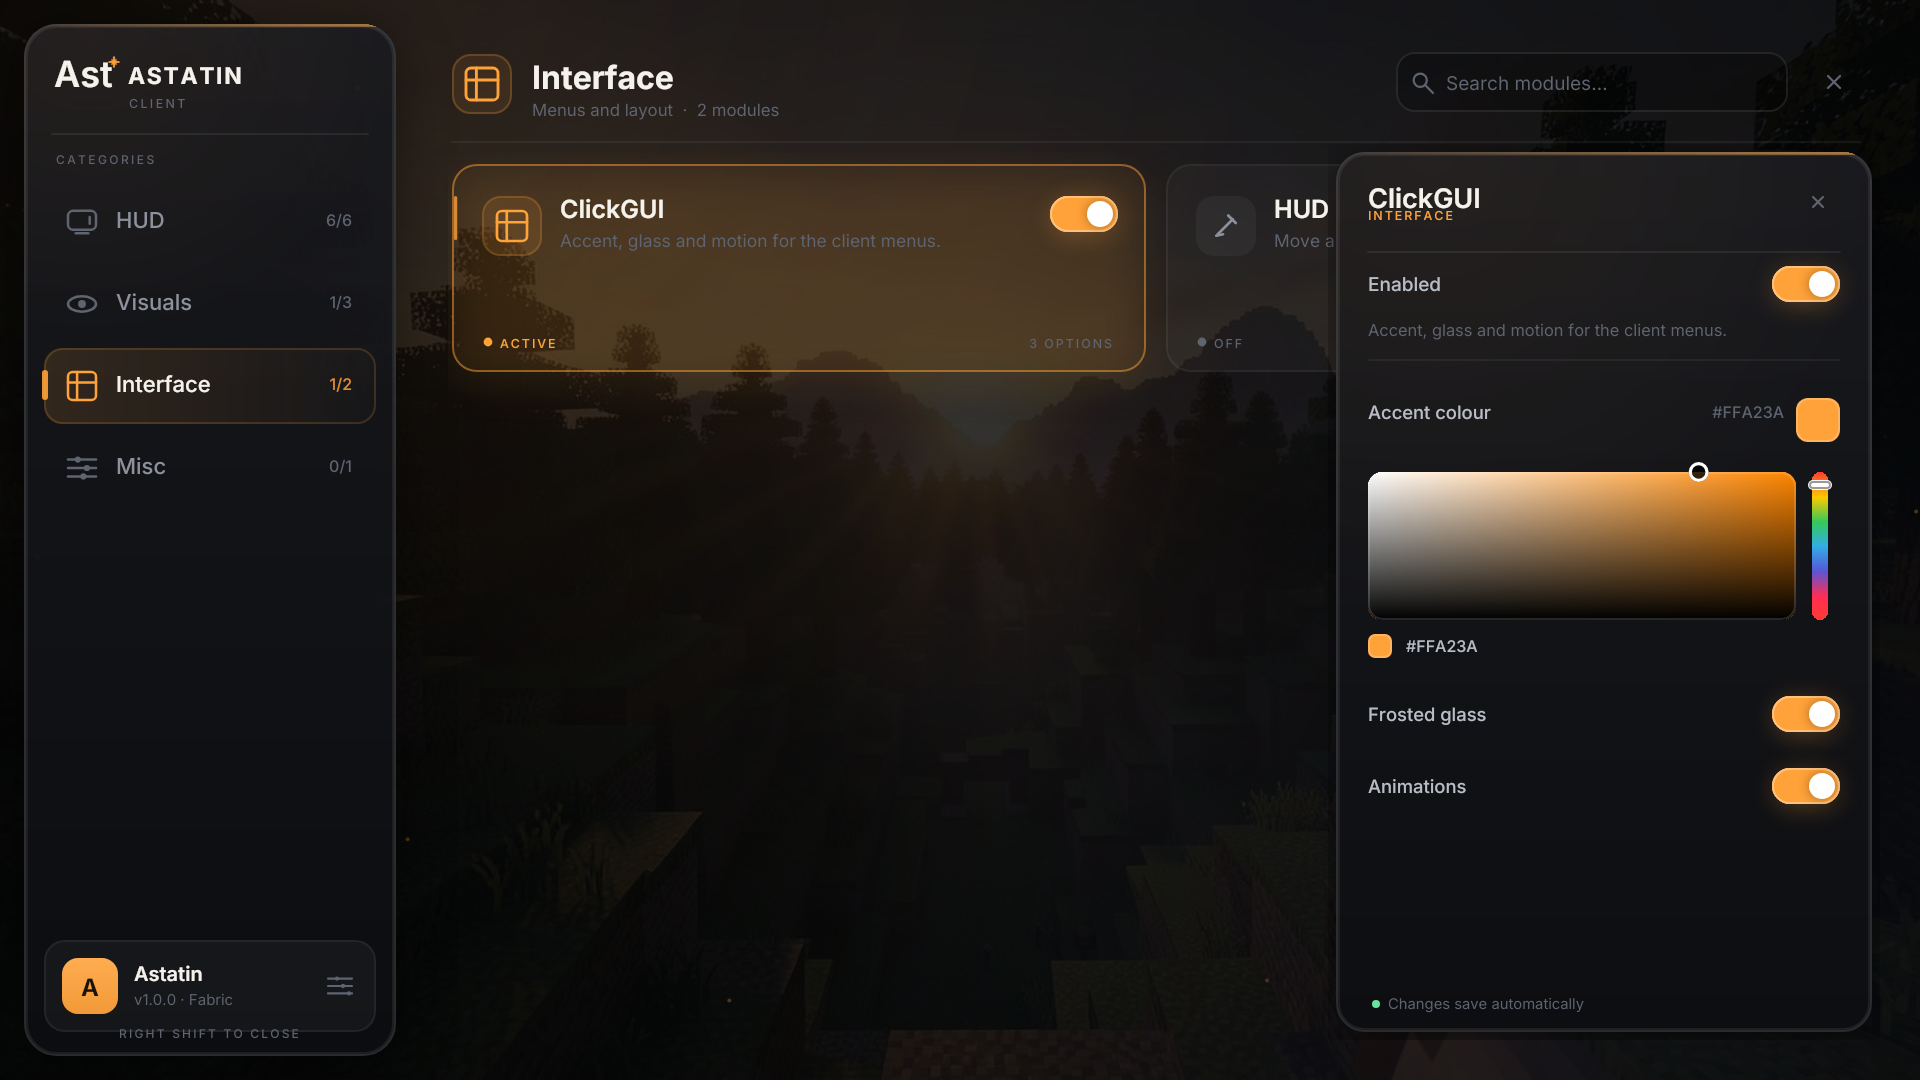
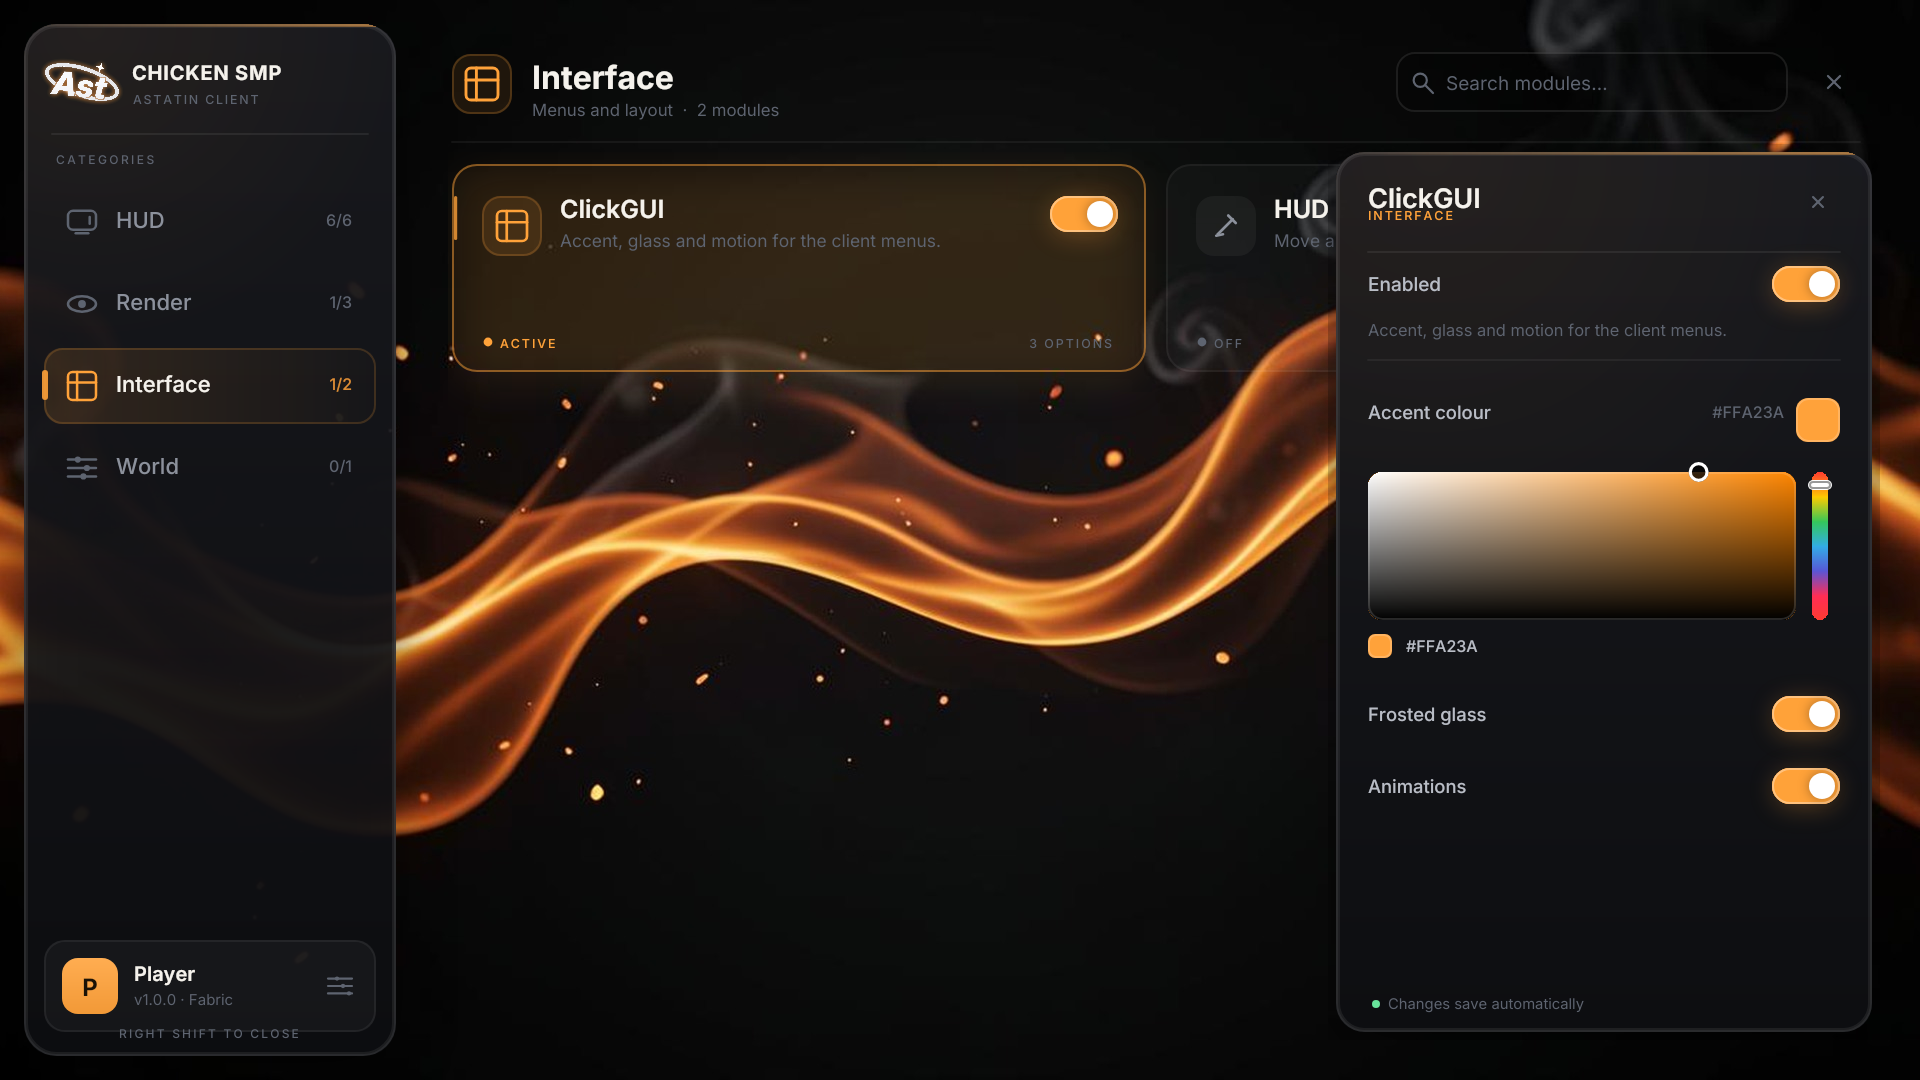
Ship every Skija native, rebuild the menu backdrop and personalise the sidebar
The overlay silently disabled itself on platforms whose Skija native was not
in the jar, so the HUD and menu never appeared outside Windows x64; all six
desktop natives are now included. The menu uses the delivered artwork as a
full-bleed backdrop, the sidebar shows the brand mark with CHICKEN SMP and the
local player's name, and the tabs read Render and World.

Generated with Codebuff 🤖

diff --git a/src/main/java/dev/astatin/menu/MenuRenderer.java b/src/main/java/dev/astatin/menu/MenuRenderer.java
@@ -152,22 +152,20 @@ public final class MenuRenderer {
     }
 
     private void drawBackdrop(Render2D r, MenuState state, float w, float h) {
-        r.rect(0f, 0f, w, h, 0xB407080A);
-        r.radialGlow(w * 0.16f, -h * 0.1f, h * 0.9f, Theme.accentSoft(0.075f), Theme.accentSoft(0f));
-        r.radialGlow(w * 0.9f, h * 0.95f, h * 0.85f, 0x0F6E8BFF, 0x006E8BFF);
-        r.radialGlow(w * 0.5f, h * 0.5f, Math.max(w, h) * 0.72f, 0x00000000, 0x6B000000);
+        // The menu artwork is drawn exactly as delivered: no tint, no overlay.
+        r.imageCover("/assets/astatin/textures/gui/menu.jpg", 0f, 0f, w, h);
+    }
 
-        // A handful of slow amber sparks. Deterministic, so the scene is stable.
-        for (int i = 0; i < 16; i++) {
-            float seed = i * 78.233f;
-            float baseX = (float) ((Math.sin(seed) * 0.5f + 0.5f) * w);
-            float speed = 6f + (i % 5) * 3f;
-            float y = h - ((state.time * speed + i * 61f) % (h + 80f)) + 40f;
-            float x = baseX + (float) Math.sin(state.time * 0.35f + i) * 10f;
-            float alpha = 0.1f + 0.18f * (float) Math.abs(Math.sin(state.time * 0.9f + i));
-            float size = i % 4 == 0 ? 1.6f : 1f;
-            r.circle(x, y, size, Theme.accentSoft(alpha));
+    /** Trims a label with an ellipsis so long player names never leave the card. */
+    private String fit(String value, float maxWidth, io.github.humbleui.skija.Font font) {
+        if (value == null || value.isEmpty()) {
+            return "";
         }
+        String text = value;
+        while (text.length() > 1 && font.measureTextWidth(text) > maxWidth) {
+            text = text.substring(0, text.length() - 1);
+        }
+        return text.length() == value.length() ? text : text + "…";
     }
 
     private void drawSidebar(Render2D r, MenuState state, MenuLayout layout) {
@@ -175,10 +173,12 @@ public final class MenuRenderer {
         r.glass(side.x(), side.y(), side.right(), side.bottom(), Theme.RADIUS_PANEL, 0x70000000, 14f);
         r.accentEdge(side.x(), side.y(), side.right(), side.bottom(), Theme.RADIUS_PANEL);
 
-        r.textTop("Ast", side.x() + 15f, side.y() + 14f, Fonts.semibold(18f), Theme.TEXT);
-        Icons.draw(r, Icons.Glyph.STAR, side.x() + 45f, side.y() + 19f, 5.5f, Theme.accentSoft(0.9f));
-        r.textTracked("ASTATIN", side.x() + 52f, side.y() + 30f, Fonts.bold(11.5f), Theme.TEXT, 0.8f);
-        r.textTracked("CLIENT", side.x() + 52.5f, side.y() + 42f, Fonts.medium(6.2f), Theme.TEXT_MUTED, 1.2f);
+        // Brand mark plus the server title, personalised below in the profile card.
+        r.imageFit("/assets/astatin/textures/gui/mark.png", side.x() + 8f, side.y() + 12f,
+                side.x() + 50f, side.y() + 46f);
+        r.textTracked("CHICKEN SMP", side.x() + 54f, side.y() + 28f, Fonts.bold(10f), Theme.TEXT, 0.4f);
+        r.textTracked("ASTATIN CLIENT", side.x() + 54.5f, side.y() + 40f, Fonts.medium(6.2f),
+                Theme.TEXT_MUTED, 0.9f);
 
         r.line(side.x() + 14f, side.y() + 55f, side.right() - 14f, side.y() + 55f, 1f, 0x12FFFFFF);
         r.textTracked("CATEGORIES", side.x() + 16f, side.y() + 70f, Fonts.medium(6f), Theme.TEXT_MUTED, 1.2f);
@@ -232,8 +232,11 @@ public final class MenuRenderer {
         float avatarY = profile.y() + 9f;
         r.gradientRect(avatarX, avatarY, avatarX + 28f, avatarY + 28f, 8f,
                 Theme.accentLight(0.12f), Theme.accentDark(0.05f));
-        r.textCenteredTop("A", avatarX + 14f, avatarY + 7.5f, Fonts.bold(12f), Theme.TEXT_ON_ACCENT);
-        r.textCenterY("Astatin", profile.x() + 45f, profile.y() + 17f, Fonts.semibold(10f), Theme.TEXT);
+        String playerName = state.playerName == null || state.playerName.isBlank() ? "Player" : state.playerName.strip();
+        String initial = playerName.substring(0, 1).toUpperCase(java.util.Locale.ROOT);
+        r.textCenteredTop(initial, avatarX + 14f, avatarY + 7.5f, Fonts.bold(12f), Theme.TEXT_ON_ACCENT);
+        r.textCenterY(fit(playerName, profile.right() - profile.x() - 60f, Fonts.semibold(10f)),
+                profile.x() + 45f, profile.y() + 17f, Fonts.semibold(10f), Theme.TEXT);
         r.textCenterY("v1.0.0 · Fabric", profile.x() + 45f, profile.y() + 30f, Fonts.regular(7.5f), Theme.TEXT_MUTED);
         Icons.draw(r, Icons.Glyph.SLIDERS, profile.right() - 18f, profile.centerY(), 12f, Theme.TEXT_MUTED);
 

diff --git a/src/main/java/dev/astatin/render/SkijaRenderer.java b/src/main/java/dev/astatin/render/SkijaRenderer.java
@@ -16,6 +16,7 @@ import org.lwjgl.opengl.GL14C;
 import org.lwjgl.opengl.GL15C;
 import org.lwjgl.opengl.GL20C;
 import org.lwjgl.opengl.GL30C;
+import org.lwjgl.opengl.GL33C;
 import org.slf4j.Logger;
 import org.slf4j.LoggerFactory;
 
@@ -93,6 +94,11 @@ public final class SkijaRenderer {
             ensureGlContext();
             saveState();
             ensureSurface(framebufferWidth, framebufferHeight);
+            // Minecraft rewrites GL state behind Skia's back every frame, so the
+            // context's cached state is dropped and the texture sampler binding
+            // cleared before the surface is used again.
+            context.resetGLAll();
+            GL33C.glBindSampler(0, 0);
             GL30C.glBindFramebuffer(GL30C.GL_FRAMEBUFFER, fbo);
             GL11C.glViewport(0, 0, framebufferWidth, framebufferHeight);
             GL11C.glDisable(GL11C.GL_SCISSOR_TEST);
@@ -449,7 +455,9 @@ public final class SkijaRenderer {
     private void disable(Throwable throwable) {
         if (!disabled) {
             disabled = true;
-            LOGGER.error("Skija overlay disabled after a rendering error", throwable);
+            LOGGER.error("Skija overlay disabled after a rendering error"
+                    + " (bundled native: " + System.getProperty("os.name") + "/"
+                    + System.getProperty("os.arch") + ")", throwable);
         }
     }
 

diff --git a/src/main/java/dev/astatin/menu/AstatinClickGuiScreen.java b/src/main/java/dev/astatin/menu/AstatinClickGuiScreen.java
@@ -54,6 +54,11 @@ public final class AstatinClickGuiScreen extends Screen {
         state.mouseY = (int) mc.mouseHandler.getScaledYPos(mc.getWindow());
         state.dt = dt;
         state.time += dt;
+        if (mc.getUser() != null && mc.getUser().getName() != null) {
+            state.playerName = mc.getUser().getName();
+        } else if (mc.player != null) {
+            state.playerName = mc.player.getGameProfile().name();
+        }
         MenuLayout layout = new MenuLayout(width, height);
         List<Module> visible = renderer.visible(state);
         state.scroll = Math.max(0f, Math.min(state.scroll, layout.maxScroll(visible.size())));

diff --git a/src/main/java/dev/astatin/modules/Category.java b/src/main/java/dev/astatin/modules/Category.java
@@ -4,9 +4,9 @@ import dev.astatin.render.Icons;
 
 public enum Category {
     HUD("HUD", "On-screen information", Icons.Glyph.HUD),
-    VISUALS("Visuals", "Rendering and comfort", Icons.Glyph.VISUALS),
+    VISUALS("Render", "Rendering and comfort", Icons.Glyph.VISUALS),
     INTERFACE("Interface", "Menus and layout", Icons.Glyph.INTERFACE),
-    MISC("Misc", "Quality of life", Icons.Glyph.MISC);
+    MISC("World", "Quality of life", Icons.Glyph.MISC);
 
     public final String label;
     public final String description;

diff --git a/src/main/java/dev/astatin/menu/MenuState.java b/src/main/java/dev/astatin/menu/MenuState.java
@@ -13,6 +13,8 @@ public final class MenuState {
     public String search = "";
     public boolean searchFocused;
     public Module selected;
+    /** Name shown in the sidebar profile card; filled from the local player. */
+    public String playerName = "Player";
     public float scroll;
     public Setting openPicker;
     public float pickerHue;
